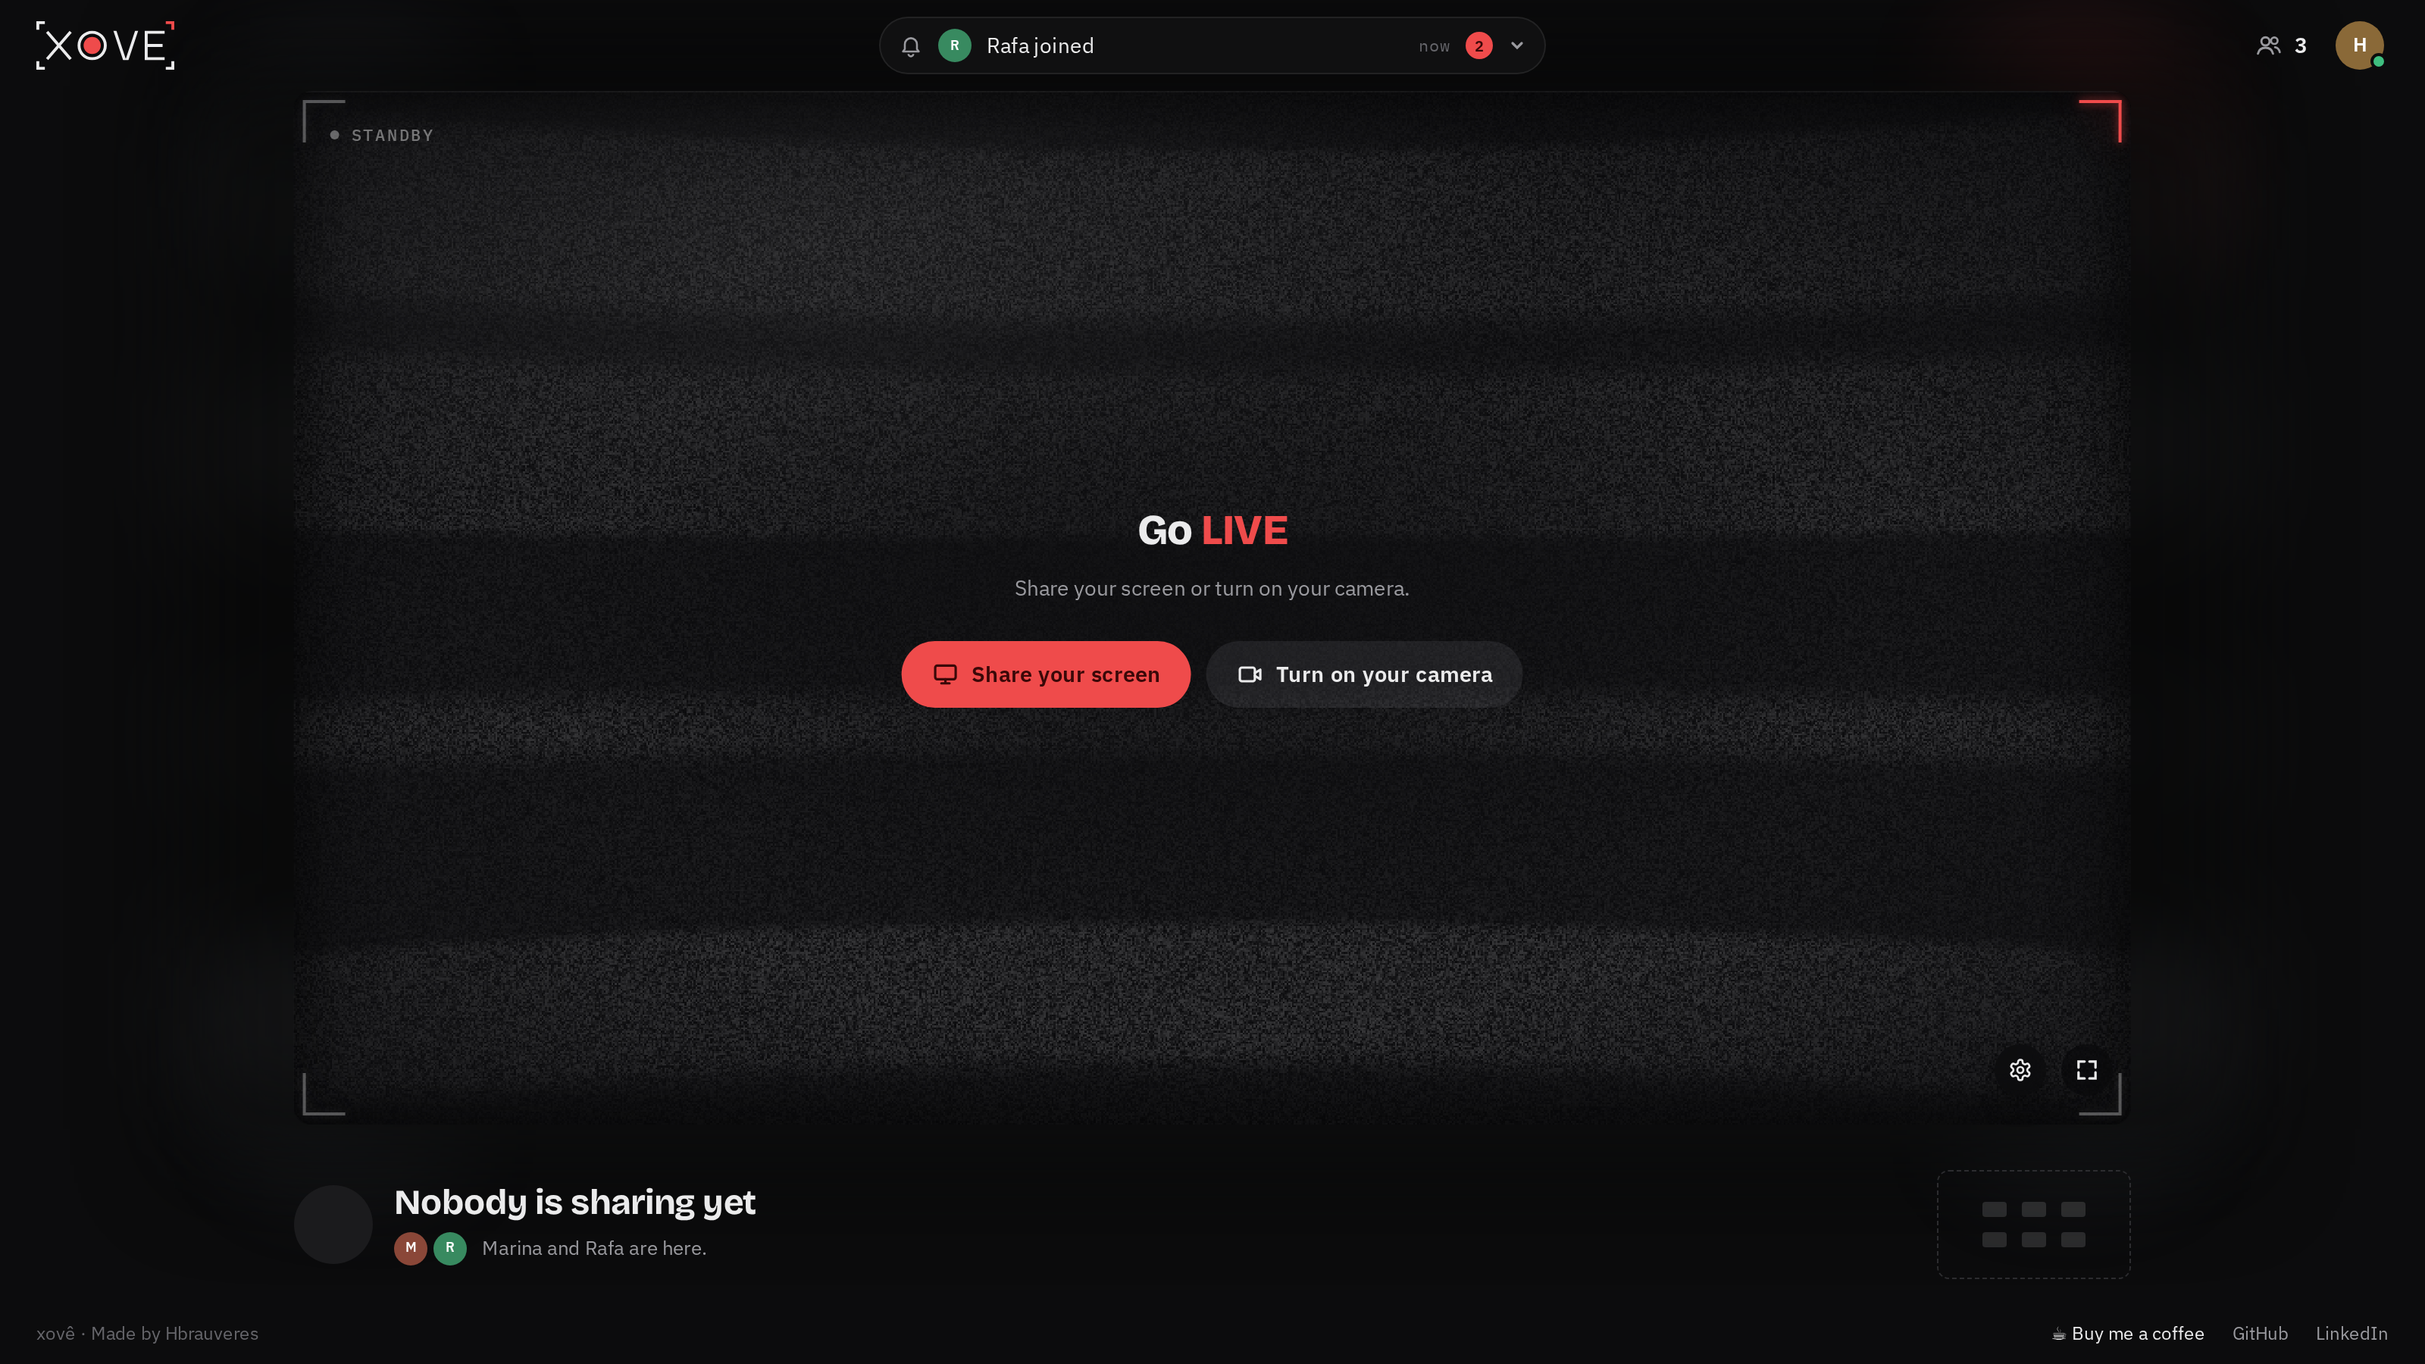
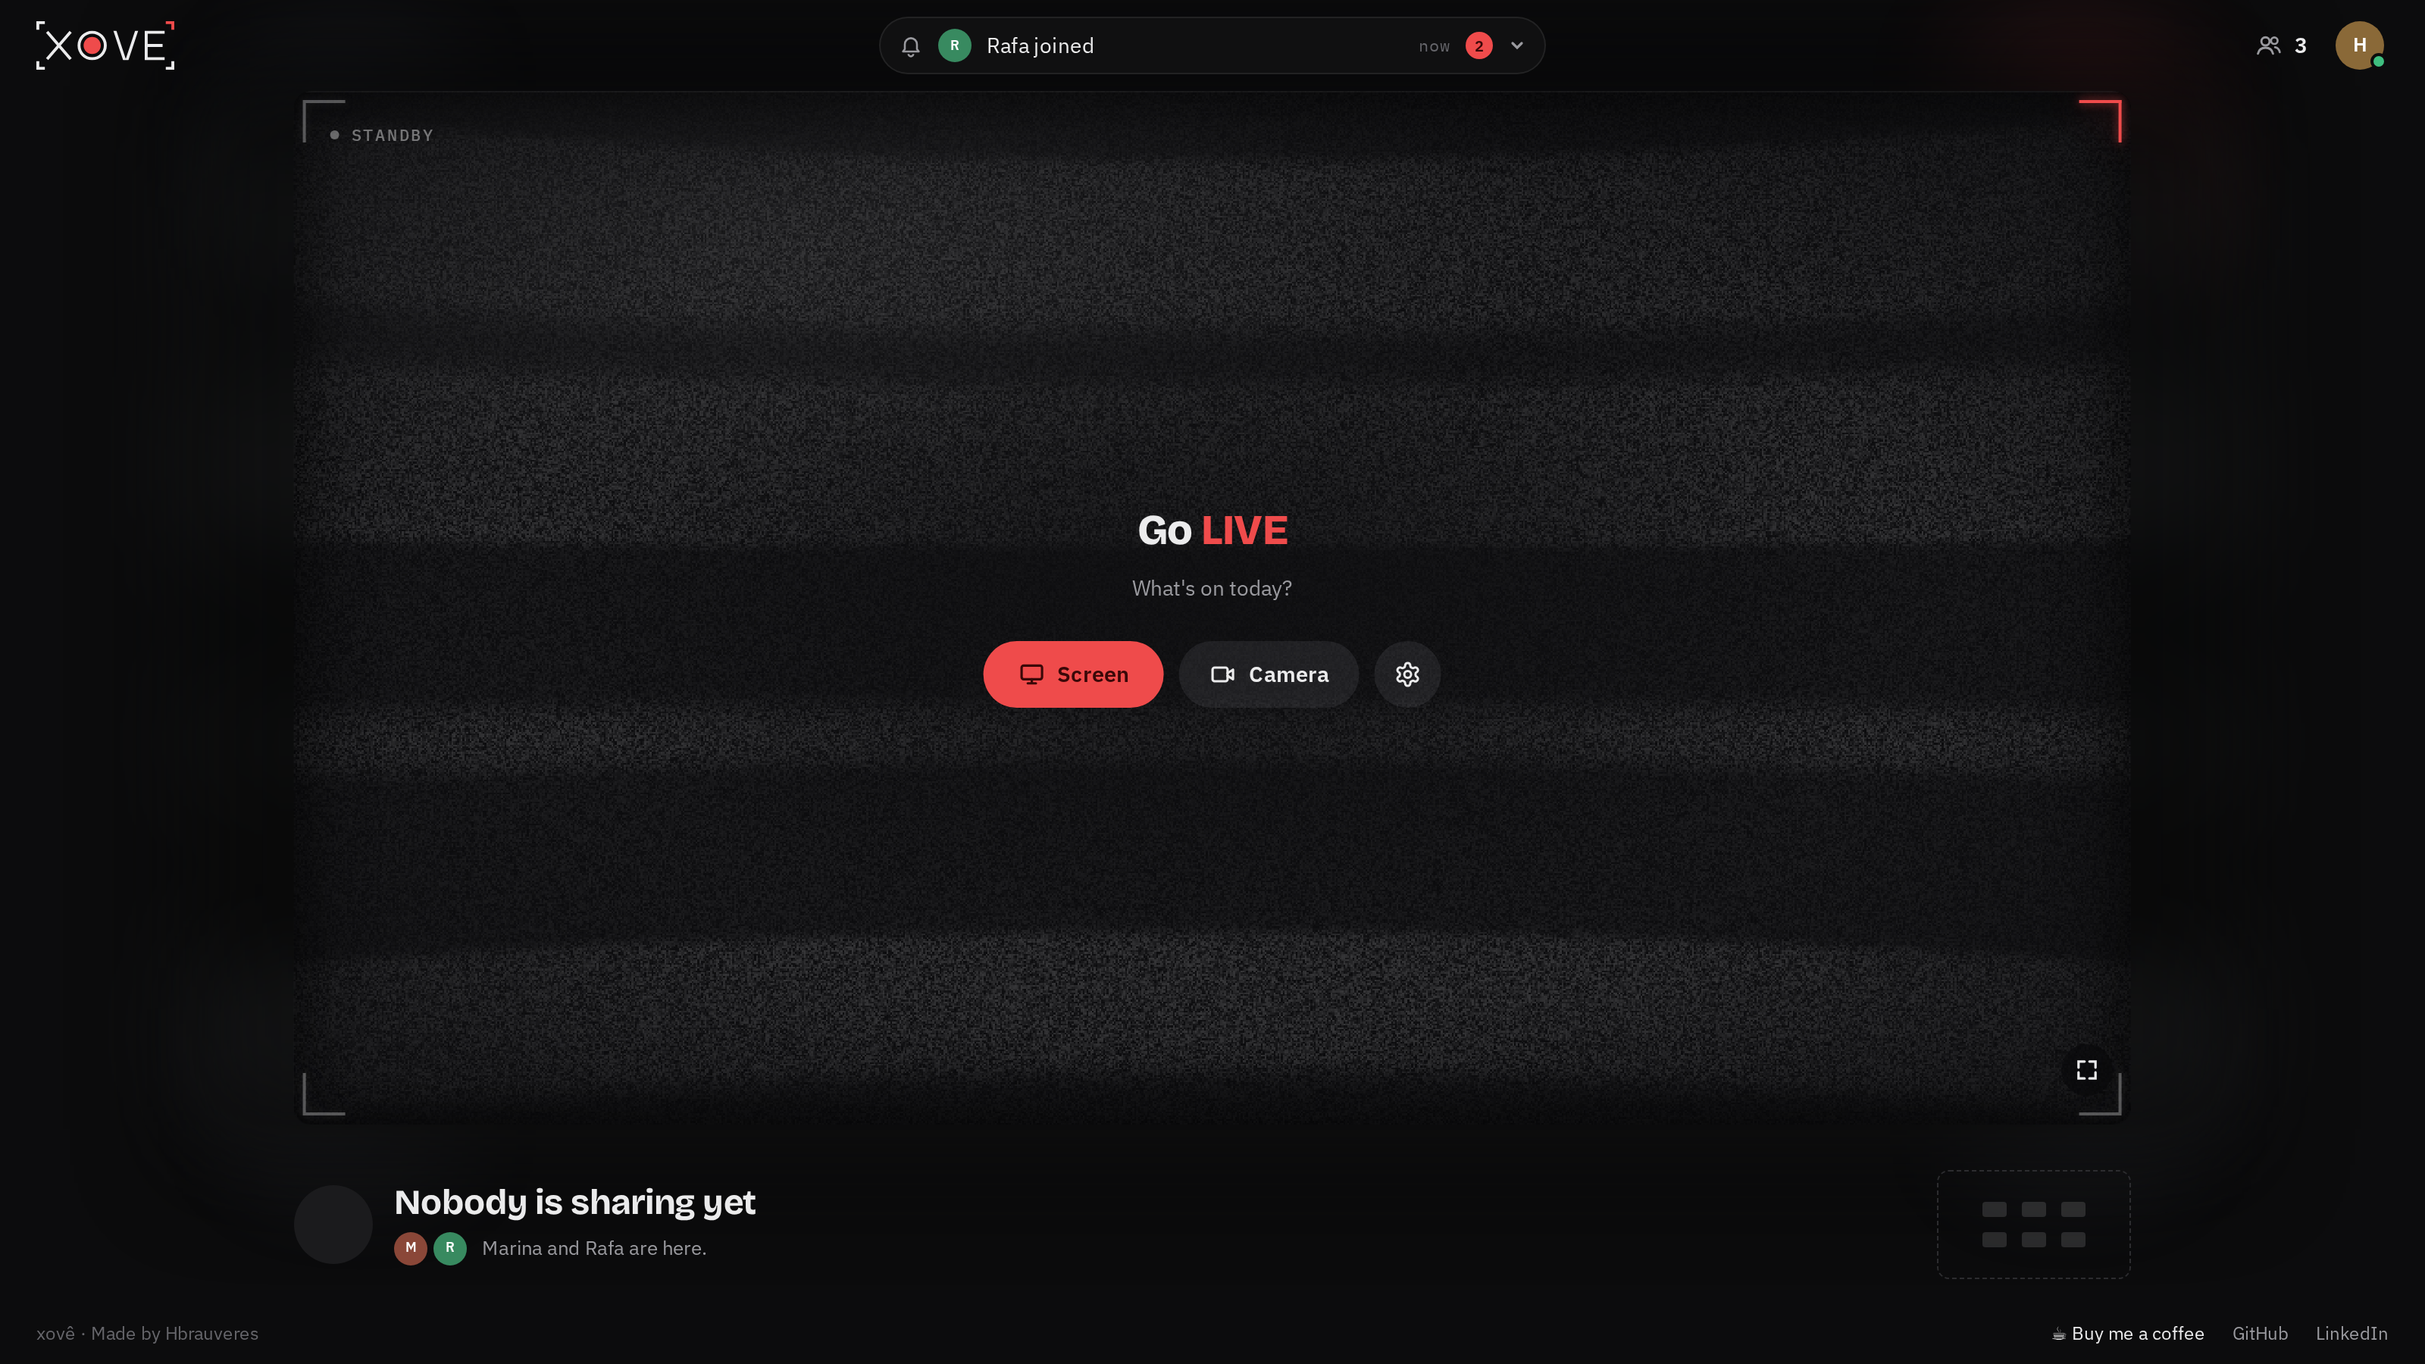
docs(web): the standby screen balanced on every screen, its rules and pictures (0138)

diff --git a/docs/design.md b/docs/design.md
@@ -26,6 +26,8 @@ The pictures are shot from the real app (`design-sheet.mjs`, see [Keeping this p
 
 - **Xovê**, with the circumflex, in every sentence and label. `xove` only where an accent can't go: the domain (`xove.app`), repos, code, image and container names. The wordmark is written in capitals, **XOVE**, and its red corner stands in for the ^.
 - **Short, plain sentences**, in sentence case: "Share your screen", "Full-screen view", "Nobody live · 0 of 6 · 6 free", "Xovê works best from your home screen". No exclamation marks, no jargon.
+- **An invitation, not an order:** under a call to act, a friendly question ("What's on today?"), never a command about someone's camera or screen.
+- **One word on a button where the context says the rest:** "Screen" and "Camera" under "Go LIVE"; the button's spoken name says the whole act ("Share your screen", "Turn on your camera").
 - **As short as they can be:** a call to act says the act ("Go LIVE"); a state says plainly what is ("Nobody is sharing yet").
 - **"Go LIVE" is said one way everywhere:** LIVE in capitals and in the accent red, like the room's LIVE marks, on the sign-in page and on the standby screen. It's written as the word ("live") and set in capitals by its style, so a screen reader says the word, not its letters.
 - **Public words** (the sign-in page, and any page someone sees before the room): a short headline with personality ("Go **LIVE** with your friends."), then one short line with substance: what you do and why it's good ("Share your screen or camera in sharp, fast streams. Watch them play, hang out, help out. Invite only.").
@@ -368,7 +370,7 @@ Turning switches layouts at once, and the stage keeps its place in the page, so 
 - **Viewfinder corners**, the screen's only frame: close to the stage's own edges on every layout, sideways too (the stage's buttons sit inside the bottom-right one), the top right red as in the logo. Finer and fainter on small stages (18 px arms, 1.5 px), and each **glows softly in its own colour**.
 - **Their light outside:** each corner glows outward too, a blurred L just outside the stage, a fade with no edge; still, following the ambilight's switch and brightness.
 - **"Standby"**, still, in small grey mono capitals with a grey dot (never red: that would mean recording), on larger stages only. Nothing else imitates equipment: no clock, meter, ruler, format tags or room number.
-- **The way to start**, with no frame of its own: "Go **LIVE**" (LIVE in the accent), one short line ("Share your screen or turn on your camera.", or "Turn on your camera." where a screen can't be shared), and the ways to start. The second way is a soft fill with no outline. **On phones** the heading and the buttons only, centred above the stage's own buttons: the camera one compact pill, a screen the browser can't share a small greyed round button beside it (a tap says why); under 360 px they shrink again.
+- **The way to start**, with no frame of its own, in the stage's middle both ways: "Go **LIVE**" (LIVE in the accent), "What's on today?", then one row centred as a whole: **Screen**, **Camera** (one word each, two pills of one width, the first red, the second a soft fill) and a small round **settings** button, so the stage's corners hold only fullscreen. The settings open over it on a desktop, as the sheet on a phone held upright, and sideways at the screen's height. **On phones and tablets held upright** the same screen, smaller: the heading 20 px and the line 13 px, every button 34 px (the stage's own buttons' size), the camera first; a screen the browser can't share is the same pill, greyed, and a tap says why. The narrowest phone (280 px) shows only the row (the heading stays for screen readers).
 - **The TV's static** behind it all: snow in soft horizontal bands (their gaps at 40% of the bands' brightness), shown at 17% over the stage's dark and darker behind the heading. The bands roll down together keeping their sizes, the picture sways a little as a TV losing its vertical hold, and the bands shimmer, 20 times a second. The grain is 1.5 px on a desktop's stage, finer on smaller ones (down to 0.75 px) and coarser on wider ones, keeping about 1 066 grains across, so a 4K or ultrawide screen costs what a desktop does; the bands are a share of the stage's height, so a phone shows the same picture smaller. Still for reduced motion.
 - **Curved glass, 90s style:** square corners; the glass darker towards its edges, a soft sheen high on the left, a faint line of light along the top; the bands bow gently towards the sides. Not a fisheye.
 - **The static lights the room:** its bands' light spills onto the page round the stage as they roll, measured from the static itself, so it's never brighter than the screen; it follows the ambilight's switch and brightness.
@@ -464,11 +466,15 @@ What a phone or tablet sees in a browser tab, on every page: the wordmark, the s
 - **Panels open over the button that opened them,** never from a side; on a wide, short player they use the width (two columns) rather than scroll. **Panels are frosted, never opaque**; nothing over the video hides the round buttons.
 - **Say what effects cost:** blur, canvases and animations run on every frame; keep them to what's here.
 - **A screen says only what matters.** No readouts that imitate real equipment (clocks, meters, rulers, format tags, made-up numbers), and no frame inside another frame.
-- **One short line under a heading, at most,** saying what to do, not what follows from it.
+- **One short line under a heading, at most,** and an invitation rather than an order (see [Name and voice](#name-and-voice)).
 - **Light comes from something, never brighter than it:** a glow round a screen or a picture is measured from what's on it.
 - **The pointer stays a pointer:** no glows, trails or effects under it.
 - **Effects are part of the look, not settings:** an effect is calm enough to need no switch to turn it off; reduced motion is the only switch, and it stills or skips them.
-- **Ways to start fit a phone:** the main way is one pill; a way the browser can't offer is a small greyed round button with its reason (not a full-width greyed one); a second way that can be used is a soft fill with no outline.
+- **One screen, sized for each device:** the same parts on a desktop and a phone, never a phone-only version; on a phone every button on the stage is one size, the stage's own (34 px).
+- **Unavailable is the same control, greyed:** a way that can't be used here keeps the shape and size of the ones that can, greyed in place with its reason, never a smaller or different button.
+- **Settings beside what they set:** the settings for going live sit in the row of ways to start (as the pre-join row of a call app), not in a corner.
+- **Centred as a whole, in the middle:** a group of buttons is centred as one row, with nothing invisible to balance it; a screen's content sits in its middle both ways, with no offset to clear corner buttons.
+- **The empty stage keeps the stage's shape:** 16:9 when nobody is live, as with a picture; never a taller box to make room.
 - **Clear of the phone's bars:** backgrounds to the screen's edges, content inside the status bar, the island or cutout and the home bar, on every page and layout (see [The phone's own bars](#the-phones-own-bars)).
 - **A short page fits a phone held sideways:** no scroll; two columns, each centred, only when both have weight, otherwise one centred column, as upright.
 - **A first impression plays once:** an intro (the TV turning on) plays the first time in a visit, never again for the same state, and never for reduced motion.

diff --git a/docs/architecture.md b/docs/architecture.md
@@ -24,7 +24,7 @@ Everything is in `app/src`:
 | `pages/` | One component per route: `HomePage`, `RequestAccessPage`, `RoomPage`, `AdminPage`, and `InstallPage` |
 | `hooks/` | The room's state and the browser's: the seat and the queue (`useRoomSeat`), the streams (`useStreams`), the LiveKit connection (`useLiveKitRoom`), both put together for the room (`useRoomSession`), who's on the stage (`useStagePick`), the layout (`useRoomLayout`), swipes (`useStageSwipe`), the video's shape (`useVideoShape`), the round buttons' row holding the clicked button still (`usePinnedRow`), and small ones (`useElapsed`, `useFullscreenElement`, `useInstalled`) |
 | `media/` | How screens and cameras are sent (`shareSettings.ts`), the ambilight's drawing (`ambilight.ts`), who is big by default (`stagePick.ts`), choices kept in the browser (`preferences.ts`) |
-| `components/stage/` | The player and what's on it: the stage, the ambilight, the controls by owner: my own stream's round buttons (`PlayerButtons`; their icons in `icons.tsx`, the drop-ups on live ones) and, over someone else's stream, `ViewerBar` (what I hear at the left, each sound its own button and slider; my mic or Go live at the right); the voice I hear (`VoiceAudio`), each person's switches and volumes held by the stage for the visit (the rule in `media/hearing.ts`), and the previews' buttons (`HearToggles`: over a big picture, or in a small preview's row, `PreviewTray`, which floats on its own layer over the page and follows its preview, opened through `usePreviewTray`; a preview's stack, its swap's moment and the finger's hold in `stack.ts`); the settings panel (`SettingsPanel`, its Voice tab's mic level in `MicTest`, and `makeRoom`, which moves the player up for its sheet in the upright full view), the facecam, the previews, the phone's feed and row, the empty stage (`EmptyStage`, a TV on standby: its corners' glow in `CornerGlow`; its TV static in `StaticNoise`, a small canvas the page draws 20 times a second, its grain and bands scaled to the stage; the static's light round the stage in `StaticGlow`; both read their bands from `staticBands.ts`, so they roll together, and its `tv` flag lets the TV's turn-on play only the first time the stage stands by in a visit), the info row. The stage is two layers: its box holds every control (the round buttons, the sounds, Go live, the fullscreen button, the dots) and takes the taps; a view inside it holds the picture and its ambilight in the picture's shape. Sideways and in a phone's upright full view the box is the whole screen; there `makeRoom` moves the view up for the settings sheet, and the controls end above the sheet from its height; in the upright normal view `liftButtons` lifts the buttons over the video where a tall player reaches under the sheet |
+| `components/stage/` | The player and what's on it: the stage, the ambilight, the controls by owner: my own stream's round buttons (`PlayerButtons`; their icons in `icons.tsx`, the drop-ups on live ones) and, over someone else's stream, `ViewerBar` (what I hear at the left, each sound its own button and slider; my mic or Go live at the right); the voice I hear (`VoiceAudio`), each person's switches and volumes held by the stage for the visit (the rule in `media/hearing.ts`), and the previews' buttons (`HearToggles`: over a big picture, or in a small preview's row, `PreviewTray`, which floats on its own layer over the page and follows its preview, opened through `usePreviewTray`; a preview's stack, its swap's moment and the finger's hold in `stack.ts`); the settings panel (`SettingsPanel`, its Voice tab's mic level in `MicTest`, and `makeRoom`, which moves the player up for its sheet in the upright full view), the facecam, the previews, the phone's feed and row, the empty stage (`EmptyStage`, a TV on standby: the ways to start and, with nobody live, the settings button, which the settings panel opens from; its corners' glow in `CornerGlow`; its TV static in `StaticNoise`, a small canvas the page draws 20 times a second, its grain and bands scaled to the stage; the static's light round the stage in `StaticGlow`; both read their bands from `staticBands.ts`, so they roll together, and its `tv` flag lets the TV's turn-on play only the first time the stage stands by in a visit), the info row. The stage is two layers: its box holds every control (the round buttons, the sounds, Go live, the fullscreen button, the dots) and takes the taps; a view inside it holds the picture and its ambilight in the picture's shape. Sideways and in a phone's upright full view the box is the whole screen; there `makeRoom` moves the view up for the settings sheet, and the controls end above the sheet from its height; in the upright normal view `liftButtons` lifts the buttons over the video where a tall player reaches under the sheet |
 | `components/room/` | The room around the stage: header, footer, people, activity (pill, bell, list), account menu, the waiting screen and the seat offer |
 | `components/ui/` | Shared controls: `Button`, `Range`, `Dropdown`, `Segmented`, `Picker` (a list that floats over its panel, masking what's behind it in the nearest `[data-list-host]`; it opens on request too), `DropUp` (its gestures can redirect to an open panel), `Tooltip` (the app's only tooltip, on its own layer, describing its control for screen readers), `floating.ts` (one tooltip or drop-up showing at a time, what floats inside another belonging to it), the cue (`cue.module.css`), `Avatar`, `PersonAvatar`, `LiveDot`, `FullPageMessage`, `Toast` (a short message any component shows with `showToast`) |
 | `components/brand/`, `brand/` | The mark: its geometry and animation timeline (`brand/`), and the components that draw it (`XoveMark`, `XoveIcon`) |

diff --git a/README.md b/README.md
@@ -21,7 +21,7 @@ This repo is the web app: React 19 and TypeScript, talking to [`xove-api`](https
 
 | | |
 | --- | --- |
-| ![Nobody live on a desktop: the stage as a camera waiting](docs/images/design/room-empty-desktop.png) | **The room, nobody live.** The stage as a camera waiting, its corners glowing, "Go LIVE" and the two ways to start |
+| ![Nobody live on a desktop: the stage as a camera waiting](docs/images/design/room-empty-desktop.png) | **The room, nobody live.** The stage as a camera waiting, its corners glowing, "Go LIVE", "What's on today?" and the ways to start |
 | ![A phone held sideways, with the streams row open](docs/images/design/room-phone-sideways.png) | **A phone held sideways.** The stage fills the screen; the controls fade while a stream plays; a swipe up opens the other streams |
 | ![The install screen on Android](docs/images/design/install-android.png) | **The install screen.** On a phone or tablet in a browser tab, Xovê asks to be installed: it's used from the home screen |
 
